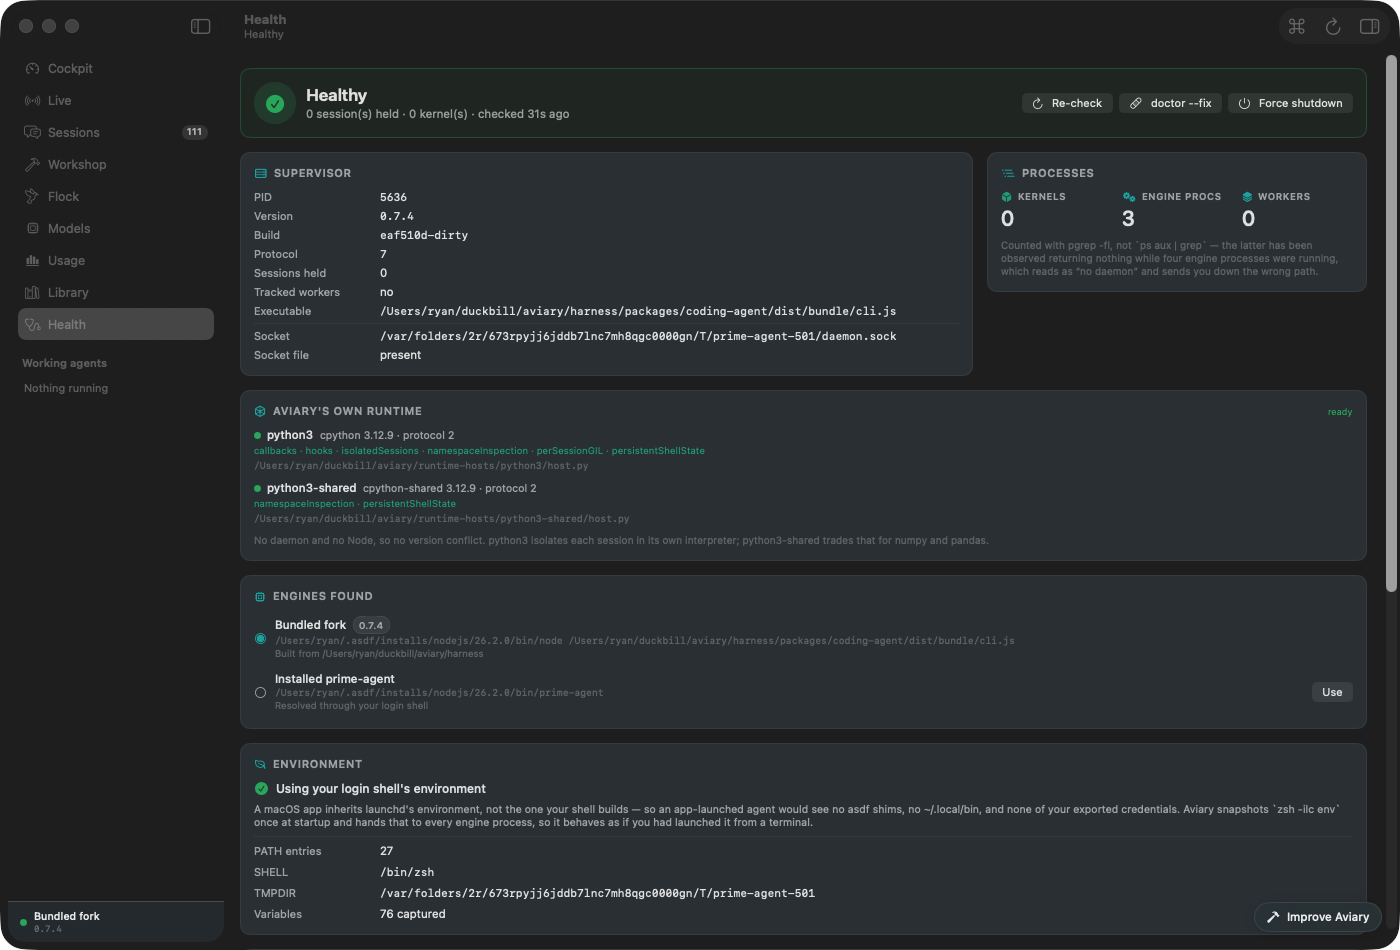
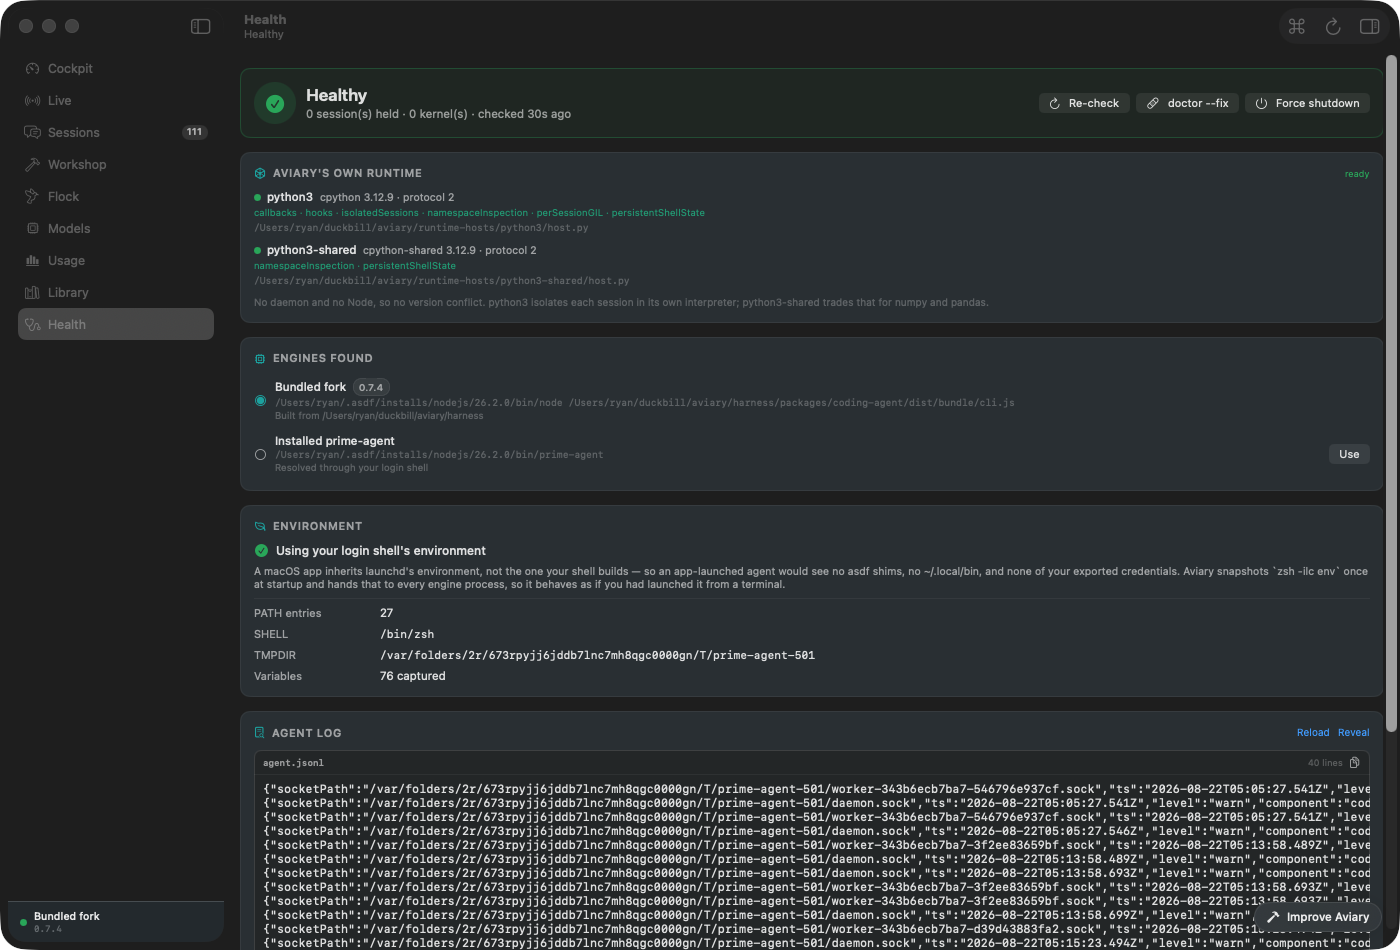
ui: retire the daemon surfaces, keep the components
The harness runs a supervisor daemon — a process holding sessions, owning a
socket and a lease, managing kernels and workers. The in-house engine has none
of it: agents run in-process, interpreters in a runtime host it owns.

Several screens described that daemon, and on the in-house engine they
described it wrongly rather than merely uselessly. A live in-house run still
rendered "Nothing running" in the sidebar and "the background service is
holding no sessions" on Live.

No longer displayed: the Supervisor, Processes and Workers cards on Health; the
"Working now" card and its stat tile, the Kernels tile, and the daemon-health
and supervisor-pid rows on the cockpit; "Running elsewhere" on Live; and the
"Working agents" sidebar section.

Kept rather than deleted — the harness is still selectable, and retiring a
screen is cheaper to reverse than rebuilding one. The already-extracted ones
stayed in place; the two that were inline are now `RunningElsewhereCard` and
`WorkingAgentsSection` in `RetiredDaemonSurfaces.swift`. Swift does not warn on
an unreferenced view, so they cost nothing, and putting one back is adding its
name to a `body`.

Two things deliberately kept, both failure surfaces rather than status: the
Health verdict with its doctor/force-shutdown controls, and the wedged-daemon
and version-mismatch banners. While the harness is still the default, a wedged
daemon needs somewhere to be visible and fixable. Worth removing when the
default flips, not before.
[…]

diff --git a/app/Sources/Aviary/CockpitView.swift b/app/Sources/Aviary/CockpitView.swift
@@ -15,17 +15,27 @@ struct CockpitView: View {
             VStack(alignment: .leading, spacing: 14) {
                 notices
                 headline
+                // `workingNow` is deliberately not shown — it lists sessions the harness
+                // daemon is holding, which the in-house engine does not have. Retired rather
+                // than deleted; see docs/architecture.md, "Retired daemon surfaces".
+                // Re-balanced after `workingNow` retired: the chart is paired with the
+                // launcher so both rows sit on the same two-column grid.
+                //
+                // This row is still narrower than the one below it, and the cause is measured
+                // rather than guessed. `Card` is already `maxWidth: .infinity`, so it is not
+                // that the card refuses to stretch — a `GeometryReader` probe showed the
+                // second row being re-offered the full width and growing (380 → 800, row
+                // 724 → 1144) while this row never fires `onChange` at all: it keeps its
+                // first-pass 724 and is never re-offered. Left for a layout pass; four
+                // attempts at fixing it by adding `maxWidth` frames only moved the dead space
+                // around, because the frames were treating a proposal problem as a sizing one.
                 HStack(alignment: .top, spacing: 14) {
-                    workingNow
                     todayPanel
+                    quickLaunch.frame(width: 330)
                 }
                 HStack(alignment: .top, spacing: 14) {
                     recentSessions
-                    VStack(spacing: 14) {
-                        quickLaunch
-                        environmentPanel
-                    }
-                    .frame(width: 330)
+                    environmentPanel.frame(width: 330)
                 }
             }
             .padding(Design.gutter)
@@ -69,7 +79,7 @@ struct CockpitView: View {
                     message: failing.1,
                     actionLabel: "Models") { model.section = .models }
             }
-            if model.engine == nil {
+            if model.engine == nil && !model.preferInHouseEngine {
                 NoticeBanner(
                     level: .danger,
                     title: "No engine found",
@@ -100,14 +110,8 @@ struct CockpitView: View {
 
     private var headline: some View {
         HStack(spacing: 14) {
-            StatTile(
-                label: "Working now",
-                value: "\(model.liveSessions.filter(\.isWorking).count)",
-                caption: "\(model.liveSessions.count) session\(model.liveSessions.count == 1 ? "" : "s") held by the daemon",
-                symbol: "bolt.fill",
-                tint: Design.success,
-                emphasis: true)
-            Divider().frame(height: 46)
+            // "Working now" and "Kernels" tiles retired with the daemon surfaces: both
+            // counted things only the harness supervisor knows about.
             StatTile(
                 label: "Sub-agents",
                 value: "\(model.tree.allNodes.count)",
@@ -116,13 +120,6 @@ struct CockpitView: View {
                     : "none running",
                 symbol: "bird.fill",
                 tint: Design.agentMessage)
-            Divider().frame(height: 46)
-            StatTile(
-                label: "Kernels",
-                value: "\(model.daemon.kernelCount)",
-                caption: "live IPython processes",
-                symbol: "cube.fill",
-                tint: Design.tool)
             Divider().frame(height: 46)
             StatTile(
                 label: "Sessions",
@@ -195,6 +192,9 @@ struct CockpitView: View {
         {
             let days = model.analytics.days(last: 14)
             let peak = max(1, days.map(\.usage.totalTokens).max() ?? 1)
+            // A `Card` stretches only when its content does. This card used to be stretched by
+            // sharing a row with `workingNow`; once that retired it collapsed to the width of
+            // 14 bars, so the fill has to come from here.
             VStack(alignment: .leading, spacing: 8) {
                 HStack(alignment: .bottom, spacing: 3) {
                     ForEach(days) { d in
@@ -223,8 +223,10 @@ struct CockpitView: View {
                         label: "cached",
                         value: Fmt.percent(window.cacheHitRate),
                         caption: "of input tokens")
+                    Spacer(minLength: 0)
                 }
             }
+            .frame(maxWidth: .infinity, alignment: .leading)
         }
         .frame(width: 380)
     }
@@ -321,11 +323,9 @@ struct CockpitView: View {
                 if let engine = model.engine {
                     DetailRow(label: "Source", value: engine.kind.label)
                     DetailRow(label: "Version", value: engine.version ?? "unknown", mono: true)
-                    DetailRow(label: "Daemon", value: model.daemon.health.label,
-                              tint: model.daemon.health == .healthy ? Design.success : Design.warning)
-                    if let pid = model.daemon.pid {
-                        DetailRow(label: "Supervisor pid", value: "\(pid)", mono: true)
-                    }
+                    // The daemon health row and supervisor pid retired with the other daemon
+                    // surfaces: this card is about which engine Aviary would launch, which is a
+                    // question the harness supervisor does not answer.
                     DetailRow(
                         label: "Environment",
                         value: model.loginShellEnvironmentLoaded ? "login shell" : "launchd",

diff --git a/app/Sources/Aviary/RetiredDaemonSurfaces.swift b/app/Sources/Aviary/RetiredDaemonSurfaces.swift
@@ -1,0 +1,101 @@
+import AviaryCore
+import SwiftUI
+
+/// Views that described the harness daemon, kept but not displayed.
+///
+/// The in-house engine has no supervisor process, no ownership lease, no pool of IPython
+/// kernels and no notion of a session held somewhere else — it runs its agents in-process and
+/// its interpreters in a runtime host it owns. These surfaces answered questions that only make
+/// sense about the harness, and on the in-house engine they answered them wrongly: a live
+/// in-house run still reported "the background service is holding no sessions".
+///
+/// Kept rather than deleted because the harness is still selectable, and because retiring a
+/// screen is a cheaper decision to reverse than rebuilding it. Nothing references this file;
+/// putting a surface back is adding its name to the relevant `body`.
+///
+/// The rest of the retired surfaces stayed where they were, since they were already extracted:
+/// `HealthView.supervisorCard`, `.processCard`, `.workersCard`, `CockpitView.workingNow`, and
+/// the "Working agents" sidebar section in `RootView`.
+
+/// Sessions the harness daemon is holding, including ones started from a terminal.
+struct RunningElsewhereCard: View {
+    @Environment(AppModel.self) private var model
+
+    var body: some View {
+        Card("Running elsewhere", symbol: "eye",
+             accessory: AnyView(
+                Button {
+                    Task { await model.refreshDaemon() }
+                } label: {
+                    Image(systemName: "arrow.clockwise").font(.system(size: 9))
+                }
+                .buttonStyle(.plain).foregroundStyle(.secondary)))
+        {
+            if model.liveSessions.isEmpty {
+                Text("The background service is holding no sessions.")
+                    .font(.system(size: 11.5)).foregroundStyle(.secondary)
+            } else {
+                VStack(spacing: 0) {
+                    ForEach(model.liveSessions) { s in
+                        LiveSessionRow(session: s)
+                            .onTapGesture { model.openTranscript(sessionID: s.sessionID) }
+                            .contextMenu {
+                                Button("Open transcript") {
+                                    model.openTranscript(sessionID: s.sessionID)
+                                }
+                                Button("Copy attach command") {
+                                    NSPasteboard.general.clearContents()
+                                    NSPasteboard.general.setString(
+                                        "prime-agent attach \(s.id)", forType: .string)
+                                }
+                            }
+                        if s.id != model.liveSessions.last?.id { Divider().opacity(0.5) }
+                    }
+                }
+            }
+        }
+    }
+}
+
+/// Daemon-held sessions that are mid-turn, as a sidebar section.
+struct WorkingAgentsSection: View {
+    @Environment(AppModel.self) private var model
+
+    var body: some View {
+        SwiftUI.Section("Working agents") {
+            let working = model.liveSessions.filter(\.isWorking)
+            if working.isEmpty {
+                Text("Nothing running")
+                    .font(.system(size: 11))
+                    .foregroundStyle(.tertiary)
+            } else {
+                ForEach(working.prefix(8)) { s in
+                    Button {
+                        model.openTranscript(sessionID: s.sessionID)
+                    } label: {
+                        HStack(spacing: 6) {
+                            PulseDot(color: s.isSubagent ? Design.agentMessage : Design.success)
+                            VStack(alignment: .leading, spacing: 0) {
+                                Text(s.displayName)
+                                    .font(.system(size: 11.5))
+                                    .lineLimit(1)
+                                if let m = s.modelLabel {
+                                    Text(m)
+                                        .font(.system(size: 9.5, design: .monospaced))
+                                        .foregroundStyle(.tertiary)
+                                        .lineLimit(1)
+                                }
+                            }
+                        }
+                    }
+                    .buttonStyle(.plain)
+                }
+                if working.count > 8 {
+                    Text("+\(working.count - 8) more")
+                        .font(.system(size: 10))
+                        .foregroundStyle(.tertiary)
+                }
+            }
+        }
+    }
+}

diff --git a/app/Sources/Aviary/RootView.swift b/app/Sources/Aviary/RootView.swift
@@ -200,47 +200,17 @@ struct SidebarView: View {
                 }
             }
 
-            SwiftUI.Section("Working agents") {
-                let working = model.liveSessions.filter(\.isWorking)
-                if working.isEmpty {
-                    Text("Nothing running")
-                        .font(.system(size: 11))
-                        .foregroundStyle(.tertiary)
-                } else {
-                    ForEach(working.prefix(8)) { s in
-                        Button {
-                            model.openTranscript(sessionID: s.sessionID)
-                        } label: {
-                            HStack(spacing: 6) {
-                                PulseDot(color: s.isSubagent ? Design.agentMessage : Design.success)
-                                VStack(alignment: .leading, spacing: 0) {
-                                    Text(s.displayName)
-                                        .font(.system(size: 11.5))
-                                        .lineLimit(1)
-                                    if let m = s.modelLabel {
-                                        Text(m)
-                                            .font(.system(size: 9.5, design: .monospaced))
-                                            .foregroundStyle(.tertiary)
-                                            .lineLimit(1)
-                                    }
-                                }
-                            }
-                        }
-                        .buttonStyle(.plain)
-                    }
-                    if working.count > 8 {
-                        Text("+\(working.count - 8) more")
-                            .font(.system(size: 10))
-                            .foregroundStyle(.tertiary)
-                    }
-                }
-            }
+            // The "Working agents" section is deliberately not shown — it listed sessions
+            // the harness daemon is holding, and on the in-house engine it was actively wrong:
+            // a live in-house run still rendered "Nothing running". Kept as
+            // `WorkingAgentsSection`; see docs/architecture.md, "Retired daemon surfaces".
         }
         .listStyle(.sidebar)
-        // The sidebar's own vibrancy is removed deliberately. An AppKit material does not
-        // rasterize in an offscreen capture, so keeping it would mean the sidebar is the
-        // one part of the app no screenshot can ever show. A solid ground renders
-        // identically everywhere.
+        // The sidebar's own vibrancy is removed. The original reason no longer holds — that
+        // was a `cacheDisplay` limitation, and captures now go through the WindowServer, which
+        // composites materials fine. Kept solid because a ground that renders identically in
+        // the app and in a screenshot is worth more here than the material was, but this is
+        // now a preference rather than a constraint.
         .scrollContentBackground(.hidden)
         .safeAreaInset(edge: .bottom, spacing: 0) { sidebarFooter }
     }

diff --git a/app/Sources/Aviary/LiveView.swift b/app/Sources/Aviary/LiveView.swift
@@ -96,38 +96,10 @@ struct LiveView: View {
                     }
                 }
 
-                Card("Running elsewhere", symbol: "eye",
-                     accessory: AnyView(
-                        Button {
-                            Task { await model.refreshDaemon() }
-                        } label: {
-                            Image(systemName: "arrow.clockwise").font(.system(size: 9))
-                        }
-                        .buttonStyle(.plain).foregroundStyle(.secondary)))
-                {
-                    if model.liveSessions.isEmpty {
-                        Text("The background service is holding no sessions.")
-                            .font(.system(size: 11.5)).foregroundStyle(.secondary)
-                    } else {
-                        VStack(spacing: 0) {
-                            ForEach(model.liveSessions) { s in
-                                LiveSessionRow(session: s)
-                                    .onTapGesture { model.openTranscript(sessionID: s.sessionID) }
-                                    .contextMenu {
-                                        Button("Open transcript") {
-                                            model.openTranscript(sessionID: s.sessionID)
-                                        }
-                                        Button("Copy attach command") {
-                                            NSPasteboard.general.clearContents()
-                                            NSPasteboard.general.setString(
-                                                "prime-agent attach \(s.id)", forType: .string)
-                                        }
-                                    }
-                                if s.id != model.liveSessions.last?.id { Divider().opacity(0.5) }
-                            }
-                        }
-                    }
-                }
+                // `RunningElsewhereCard` is deliberately not shown — it lists sessions the
+                // harness daemon is holding, and the in-house engine holds its runs itself
+                // (they are right here on this screen). Retired rather than deleted; see
+                // docs/architecture.md, "Retired daemon surfaces".
             }
             .padding(Design.gutter)
         }

diff --git a/app/Sources/Aviary/HealthView.swift b/app/Sources/Aviary/HealthView.swift
@@ -20,14 +20,15 @@ struct HealthView: View {
         ScrollView {
             VStack(alignment: .leading, spacing: 14) {
                 verdict
-                HStack(alignment: .top, spacing: 14) {
-                    supervisorCard
-                    processCard
-                }
+                // `supervisorCard`, `processCard` and `workersCard` are deliberately not
+                // shown. They describe the harness daemon — its pid, socket, ownership lease,
+                // kernel and worker processes — and the in-house engine has none of that.
+                // Retired rather than deleted: they are intact below and putting one back is
+                // adding its name to this list. See docs/architecture.md, "Retired daemon
+                // surfaces".
                 runtimeCard
                 enginesCard
                 environmentCard
-                workersCard
                 logCard
                 pathsCard
             }

diff --git a/docs/architecture.md b/docs/architecture.md
@@ -347,6 +347,45 @@ make the list feel broken.
 Each provider's own model list is sorted to match the flat list, so a per-provider picker and
 the flat switcher cannot disagree.
 
+### Retired daemon surfaces
+
+The harness runs a supervisor daemon: a long-lived process holding sessions, owning a socket and
+an ownership lease, and managing a pool of IPython kernels and worker processes. The in-house
+engine has none of that — it runs agents in-process and interpreters in a runtime host it owns.
+
+Several screens described that daemon, and on the in-house engine they described it *wrongly*
+rather than merely uselessly: a live in-house run still rendered "Nothing running" in the
+sidebar and "the background service is holding no sessions" on Live. These are no longer
+displayed:
+
+| Surface | Where it lives now |
+|---|---|
+| Supervisor card (pid, build, socket, lease) | `HealthView.supervisorCard` |
+| Processes card (kernels, engine procs, workers) | `HealthView.processCard` |
+| Workers card | `HealthView.workersCard` |
+| "Working now" card and its stat tile | `CockpitView.workingNow` |
+| Kernels stat tile | removed inline |
+| Daemon health and supervisor pid rows | removed inline from `CockpitView.environmentPanel` |
+| "Running elsewhere" card | `RunningElsewhereCard` in `RetiredDaemonSurfaces.swift` |
+| "Working agents" sidebar section | `WorkingAgentsSection` in `RetiredDaemonSurfaces.swift` |
+
+Kept rather than deleted, because the harness is still selectable and retiring a screen is a
+cheaper decision to reverse than rebuilding one. The already-extracted ones stayed where they
+were; the two that were inline were extracted into `RetiredDaemonSurfaces.swift`. Nothing
+references them, and Swift does not warn on an unreferenced view, so they cost nothing. Putting
+one back is adding its name to the relevant `body`.
+
+**Two things were deliberately kept.** The Health verdict, with its `Re-check`, `doctor --fix`
+and `Force shutdown` controls, is the failure surface rather than a status card — while the
+harness is still the default, a wedged daemon needs somewhere to be visible and fixable. And
+the wedged-daemon and version-mismatch notice banners on the cockpit, for the same reason: they
+appear only when something is actually broken. Both are worth removing once the in-house engine
+becomes the default, not before.
+
+`refreshDaemon` still runs. `liveSessions` feeds `annotateLiveState`, which marks a session row
+in the catalogue as live — that is still true and still useful regardless of which engine is
+running.
+
 ## The runtime host
 
 Where agent code runs, as of 2026-08-21. A separate process, one isolated interpreter per
